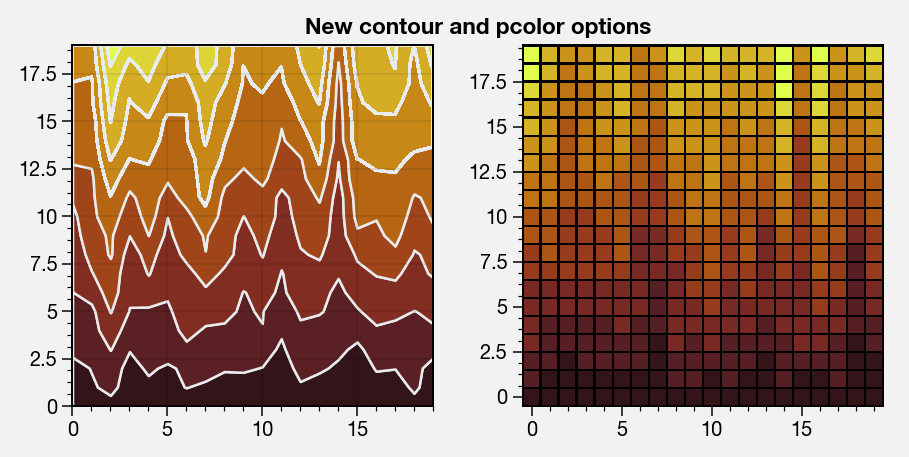
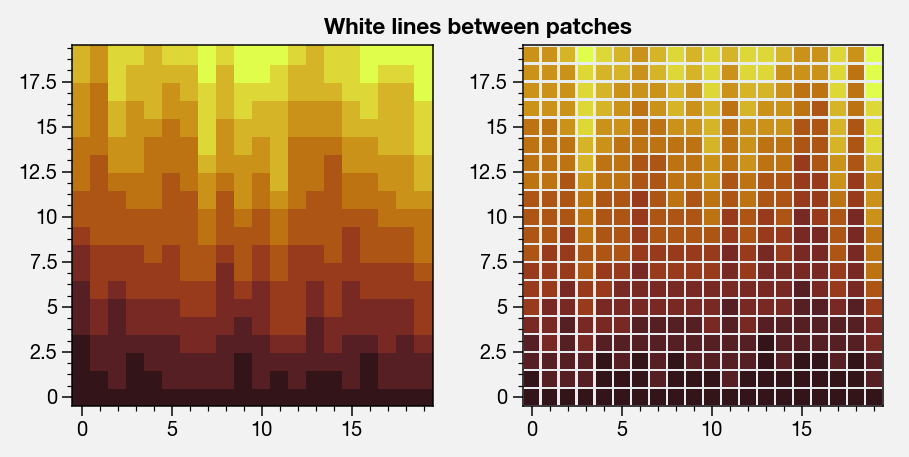
Fix pcolor keyword arg override

diff --git a/proplot/axes.py b/proplot/axes.py
@@ -176,6 +176,16 @@ _aliases = {
     'tpanel': 'toppanel',
     'lpanel': 'leftpanel'
     }
+# Keywords
+# These may automatically override the 'fix' option!
+# NOTE: Pcolor edgecolors is really just more *flexible* version of 'color';
+# and if the latter is specified will overwrite the former by default, so we
+# just do the same thing.
+_options = {
+    'contour$': {'colors':'colors', 'linewidths':'linewidths', 'linestyles':'linestyles'},
+    'cmapline': {'colors':'color',  'linewidths':'linewidth', 'linestyles':'linestyle'},
+    '^pcolor':  {'colors':'edgecolors', 'linewidths':'linewidth', 'linestyles':'linestyle'},
+    }
 
 #------------------------------------------------------------------------------
 # Wrappers for standardizing 2D grid inputs for contour, etc.
@@ -271,6 +281,7 @@ def wrapper_check_edges(func, *args, order='C', **kwargs):
         elif Z.shape[1]==xlen and Z.shape[0]==ylen:
             # If 2D, don't raise error, but don't fix either, because
             # matplotlib pcolor accepts grid center inputs.
+            # TODO: Fix 2D inputs?
             if x.ndim==1 and y.ndim==1:
                 x, y = utils.edges(x), utils.edges(y)
         elif Z.shape[1]!=xlen-1 or Z.shape[0]!=ylen-1:
@@ -517,8 +528,7 @@ def wrapper_cmap(self, func, *args, fix=True, cmap=None, cmap_kw={},
     norm=None, norm_kw={},
     lw=None, linewidth=None, linewidths=None,
     ls=None, linestyle=None, linestyles=None,
-    color=None, colors=None,
-    values_as_levels=True, # if values are passed, treat them as levels?
+    color=None, colors=None, edgecolor=None, edgecolors=None,
     **kwargs):
     """
     Wraps methods that take a ``cmap`` argument, like
@@ -566,12 +576,21 @@ def wrapper_cmap(self, func, *args, fix=True, cmap=None, cmap_kw={},
         This is passed to the `~proplot.colortools.Norm` constructor.
     norm_kw : dict-like, optional
         Passed to `~proplot.colortools.Norm`.
-    values_as_levels : bool, optional
-        Used internally. Toggles whether to infer `values` from `levels`, or
-        to bypass them and add `values` as a keyword arg to the main function.
 
     Other parameters
     ----------------
+    lw, linewidth, linewidths
+        Aliases. Refers to `linewidths` for `~matplotlib.axes.Axes.contour`,
+        `linewidth` for `~matplotlib.axes.Axes.pcolor` and
+        `~matplotlib.axes.Axes.pcolormesh`, and `linewidth` for `BaseAxes.cmapline`.
+    ls, linestyle, linestyles
+        Aliases. Refers to `linestyles` for `~matplotlib.axes.Axes.contour`,
+        `linestyle` for `~matplotlib.axes.Axes.pcolor` and
+        `~matplotlib.axes.Axes.pcolormesh`, and `linestyle` for `BaseAxes.cmapline`.
+    color, colors, edgecolor, edgecolors
+        Aliases. Refers to `colors` for `~matplotlib.axes.Axes.contour`,
+        `edgecolors` for `~matplotlib.axes.Axes.pcolor` and
+        `~matplotlib.axes.Axes.pcolormesh`, and `color` for `BaseAxes.cmapline`.
     *args, **kwargs
         Passed to the matplotlib plotting method.
 
@@ -600,10 +619,9 @@ def wrapper_cmap(self, func, *args, fix=True, cmap=None, cmap_kw={},
     # Input levels
     # See this post: https://stackoverflow.com/a/48614231/4970632
     name = func.__name__
+    values_as_keyword = (name=='cmapline') # functions for which 'values' is a native keyword
     if np.iterable(values):
-        if name=='cmapline': # e.g. for cmapline, we want to *interpolate*
-            values_as_levels = False # get levels later down the line
-        if not values_as_levels:
+        if values_as_keyword:
             kwargs['values'] = values
             levels = utils.edges(values) # special case, used by colorbar factory
         else:
@@ -614,7 +632,7 @@ def wrapper_cmap(self, func, *args, fix=True, cmap=None, cmap_kw={},
                 levels = norm_tmp.inverse(utils.edges(norm_tmp(values)))
     # Input colormap
     cyclic = False
-    colors = _default(color, colors)
+    colors = _default(color, colors, edgecolor, edgecolors)
     levels = _default(levels, 11) # e.g. pcolormesh can auto-determine levels if you input a number
     linewidths = _default(lw, linewidth, linewidths)
     linestyles = _default(ls, linestyle, linestyles)
@@ -633,22 +651,21 @@ def wrapper_cmap(self, func, *args, fix=True, cmap=None, cmap_kw={},
         kwargs.update({'levels': levels, 'extend': extend})
     elif name in ('imshow', 'matshow', 'spy', 'hist2d'): # aspect ratio settings
         kwargs['aspect'] = 'auto'
-    # New feature, add lines to contourf
-    # TODO: Check all this stuff for quiver, etc.!
-    if re.match('contour$', name): # add ability to specify line widths with contours!
-        if colors:
-            kwargs['colors'] = colors
-        if linewidths:
-            kwargs['linewidths'] = linewidths
-        if linestyles:
-            kwargs['linestyles'] = linestyles
-    elif name=='cmapline':
-        if colors:
-            kwargs['color'] = colors
-        if linewidths:
-            kwargs['linewidth'] = linewidths
-        if linestyles:
-            kwargs['linestyle'] = linestyles
+    # Disable fix=True for certain keyword combinations, e.g. if user wants
+    # white lines around their pcolor mesh.
+    # TODO: Double check matshow, etc.!
+    for regex,names in _options.items():
+        if not re.search(regex, name):
+            continue
+        for key,value in (('colors',colors), ('linewidths',linewidths), ('linestyles',linestyles)):
+            if not value:
+                continue
+            if key not in names:
+                if value:
+                    raise ValueError(f'Unknown keyword arg {key} for function {name}.')
+                continue
+            fix = False # override!
+            kwargs[names[key]] = value
 
     # Call function with custom kwargs, exit if no cmap
     result = func(*args, **kwargs)
@@ -712,10 +729,6 @@ def wrapper_cmap(self, func, *args, fix=True, cmap=None, cmap_kw={},
         color = 'face'
         linewidth = 0.4 # seems to be lowest threshold where white lines disappear
         linestyle = '-'
-        if colors or linewidths or linestyles:
-            color = _default(colors, 'k')
-            linewidth = _default(linewidths, 1.0)
-            linestyle = _default(linestyles, '-')
         if 'contourf' in name: # 'contourf', 'tricontourf'
             for contour in result.collections:
                 contour.set_edgecolor(color)
@@ -2792,13 +2805,16 @@ class XYAxes(BaseAxes):
 
     def dualx(self, transform='linear', offset=0, scale=1, label=None, xlabel=None, **kwargs):
         """As with `~XYAxes.dualy`, but for the *x*-axis. See `~XYAxes.dualy`."""
+        parent = self.get_xscale()
+        if parent!='linear':
+            warnings.warn('Parent axis scale must be linear.')
+            self.set_xscale('linear')
         ax = self.twiny()
         if xlabel is None:
             warnings.warn('Axis label is highly recommended for "alternate units" axis. Use the "xlabel" keyword argument.')
         xscale = axistools.InvertedScaleFactory(transform)
-        xformatter = kwargs.pop('xformatter', 'default')
         xlabel = label or xlabel
-        ax.format(xscale=xscale, xformatter=xformatter, xlabel=xlabel, **kwargs)
+        ax.format(xscale=xscale, xlabel=xlabel, **kwargs)
         self._dualx_scale = (offset, scale)
 
     def dualy(self, transform='linear', offset=0, scale=1, label=None, ylabel=None, **kwargs):
@@ -2843,13 +2859,16 @@ class XYAxes(BaseAxes):
         # formatter. For example, a linear scale will change default formatter
         # to original matplotlib version instead of my custom override. Need
         # to apply it explicitly.
+        parent = self.get_yscale()
+        if parent!='linear':
+            warnings.warn('Parent axis scale must be linear.')
+            self.set_yscale('linear')
         ax = self.twinx()
         if ylabel is None:
             warnings.warn('Axis label is highly recommended for "alternate units" axis. Use the "ylabel" keyword argument.')
         yscale = axistools.InvertedScaleFactory(transform)
-        yformatter = kwargs.pop('yformatter', 'default')
         ylabel = label or ylabel
-        ax.format(yscale=yscale, yformatter=yformatter, ylabel=ylabel, **kwargs)
+        ax.format(yscale=yscale, ylabel=ylabel, **kwargs)
         self._dualy_scale = (offset, scale)
 
     def altx(self, *args, **kwargs):
@@ -3187,10 +3206,10 @@ class MapAxes(BaseAxes):
     # both jump over this intermediate class and call BaseAxes.smart_update
     def smart_update(self, grid=None, labels=None, latmax=None,
         lonlim=None, latlim=None, xlim=None, ylim=None,
-        xticks=None, xminorticks=None, xlocator=None, xminorlocator=None,
-        yticks=None, yminorticks=None, ylocator=None, yminorlocator=None,
-        latticks=None, latminorticks=None, latlocator=None, latminorlocator=None,
-        lonticks=None, lonminorticks=None, lonlocator=None, lonminorlocator=None,
+        xlines=None, xminorlines=None, xticks=None, xminorticks=None, xlocator=None, xminorlocator=None,
+        ylines=None, yminorlines=None, yticks=None, yminorticks=None, ylocator=None, yminorlocator=None,
+        lonlines=None, lonminorlines=None, latticks=None, latminorticks=None, latlocator=None, latminorlocator=None,
+        latlines=None, latminorlines=None, lonticks=None, lonminorticks=None, lonlocator=None, lonminorlocator=None,
         latlabels=None, lonlabels=None, xlabels=None, ylabels=None,
         **kwargs,
         ):
@@ -3211,11 +3230,11 @@ class MapAxes(BaseAxes):
             Aliases for `lonlim`, `latlim`.
         lonlim, latlim : None or length-2 list of float, optional
             Longitude and latitude limits of projection.
-        xlocator, ylocator, lonticks, latticks, xticks, yticks
+        xlocator, ylocator, lonlines, latlines, xlines, ylines, lonticks, latticks, xticks, yticks
             Aliases for `lonlocator`, `latlocator`.
         lonlocator, latlocator : None or list of float, optional
             List of longitudes and latitudes for drawing gridlines.
-        xminorlocator, yminorlocator, lonminorticks, latminorticks, xminorticks, yminorticks
+        xminorlocator, yminorlocator, lonminorlines, latminorlines, xminorlines, yminorlines, lonminorticks, latminorticks, xminorticks, yminorticks
             Aliases for `lonminorlocator`, `latminorlocator`.
         lonminorlocator, latminorlocator : None or list of float, optional
             As with `lonlocator` and `latlocator`, but for minor gridlines.
@@ -3246,10 +3265,10 @@ class MapAxes(BaseAxes):
         grid = _default(grid, rc.get('geogrid'))
         lonlim = _default(xlim, lonlim)
         latlim = _default(ylim, latlim)
-        lonlocator = _default(lonlocator, lonticks, xlocator, xticks)
-        latlocator = _default(latlocator, latticks, ylocator, yticks)
-        lonminorlocator = _default(lonminorlocator, lonminorticks, xminorlocator, xminorticks)
-        latminorlocator = _default(latminorlocator, latminorticks, yminorlocator, yminorticks)
+        lonlocator = _default(lonlocator, lonlines, lonticks, xlocator, xlines, xticks)
+        latlocator = _default(latlocator, latlines, latticks, ylocator, ylines, yticks)
+        lonminorlocator = _default(lonminorlocator, lonminorlines, lonminorticks, xminorlocator, xminorlines, xminorticks)
+        latminorlocator = _default(latminorlocator, latminorlines, latminorticks, yminorlocator, yminorlines, yminorticks)
         lonlocator = lonminorlocator or lonlocator # where we draw gridlines
         latlocator = latminorlocator or latlocator
         latlocator = _default(latlocator, rc.get('geogrid.latlines')) # gridlines by default

diff --git a/docs/showcase.rst b/docs/showcase.rst
@@ -546,18 +546,17 @@ and
 `white-lines-between-pcolor-rectangles <https://stackoverflow.com/q/27092991/4970632>`__
 issues by automatically changing the edge colors after ``contourf``,
 ``pcolor``, and ``pcolormesh`` are called. Use ``fix=False`` to disable
-this behavior (it does slow down figure rendering a bit). If desired,
-you can also customize the line properties for the lines between filled
-color patches, as is done below.
+this behavior (it does slow down figure rendering a bit), or just pass
+one of the keyword args that specifies line properties.
 
 .. code:: ipython3
 
     import proplot as plot
     import numpy as np
     f, axs = plot.subplots(ncols=2, share=False)
-    axs[0].contourf(np.random.rand(20,20).cumsum(axis=0), cmap='solar', ls='-', lw=1, color='gray2')
-    axs[1].pcolormesh(np.random.rand(20,20).cumsum(axis=0), cmap='solar', lw=0.5, color='k')
-    axs.format(suptitle='New contour and pcolor options')
+    axs[0].pcolormesh(np.random.rand(20,20).cumsum(axis=0), cmap='solar') # fixed bug
+    axs[1].pcolormesh(np.random.rand(20,20).cumsum(axis=0), cmap='solar', lw=0.5, color='gray2') # deliberate lines
+    axs.format(suptitle='White lines between patches')
 
 
 
